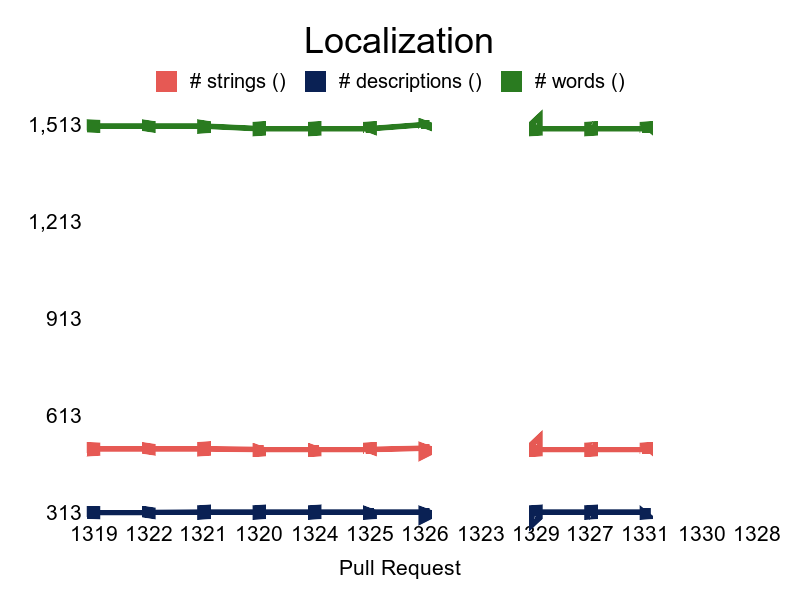
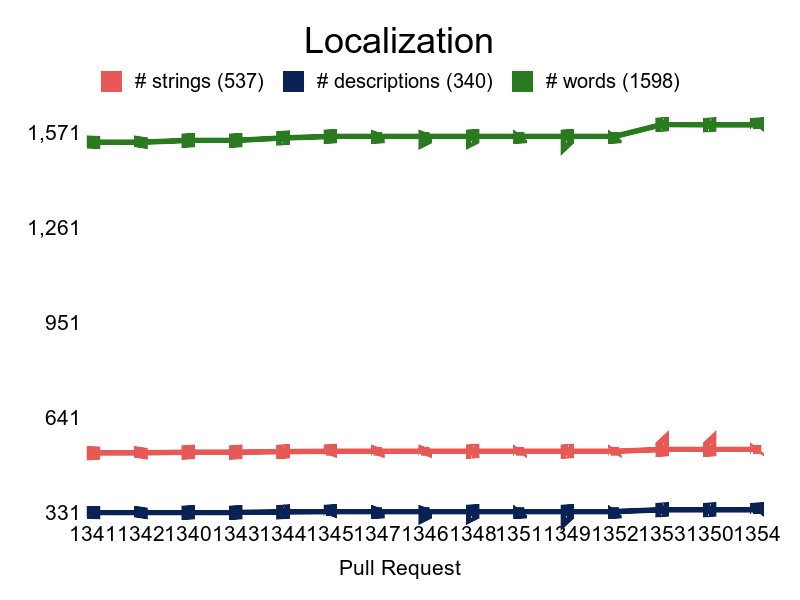
Fix localization metrics path

diff --git a/gen-localized-chart.rb b/gen-localized-chart.rb
@@ -15,7 +15,7 @@ collection.find().sort(:start_time => -1).limit(LIMIT).map do |document|
     pull_number = document['pull_request'].to_i
     if pull_number != 0 && !keys.include?(pull_number)
         keys.push(pull_number)
-        coverage_data.insert(0, [pull_number, document['metrics']['strings'], document['metrics']['descriptions'], document['metrics']['words']])
+        coverage_data.insert(0, [pull_number, document['metrics']['localization']['strings'], document['metrics']['localization']['descriptions'], document['metrics']['localization']['words']])
     end
 end
 
